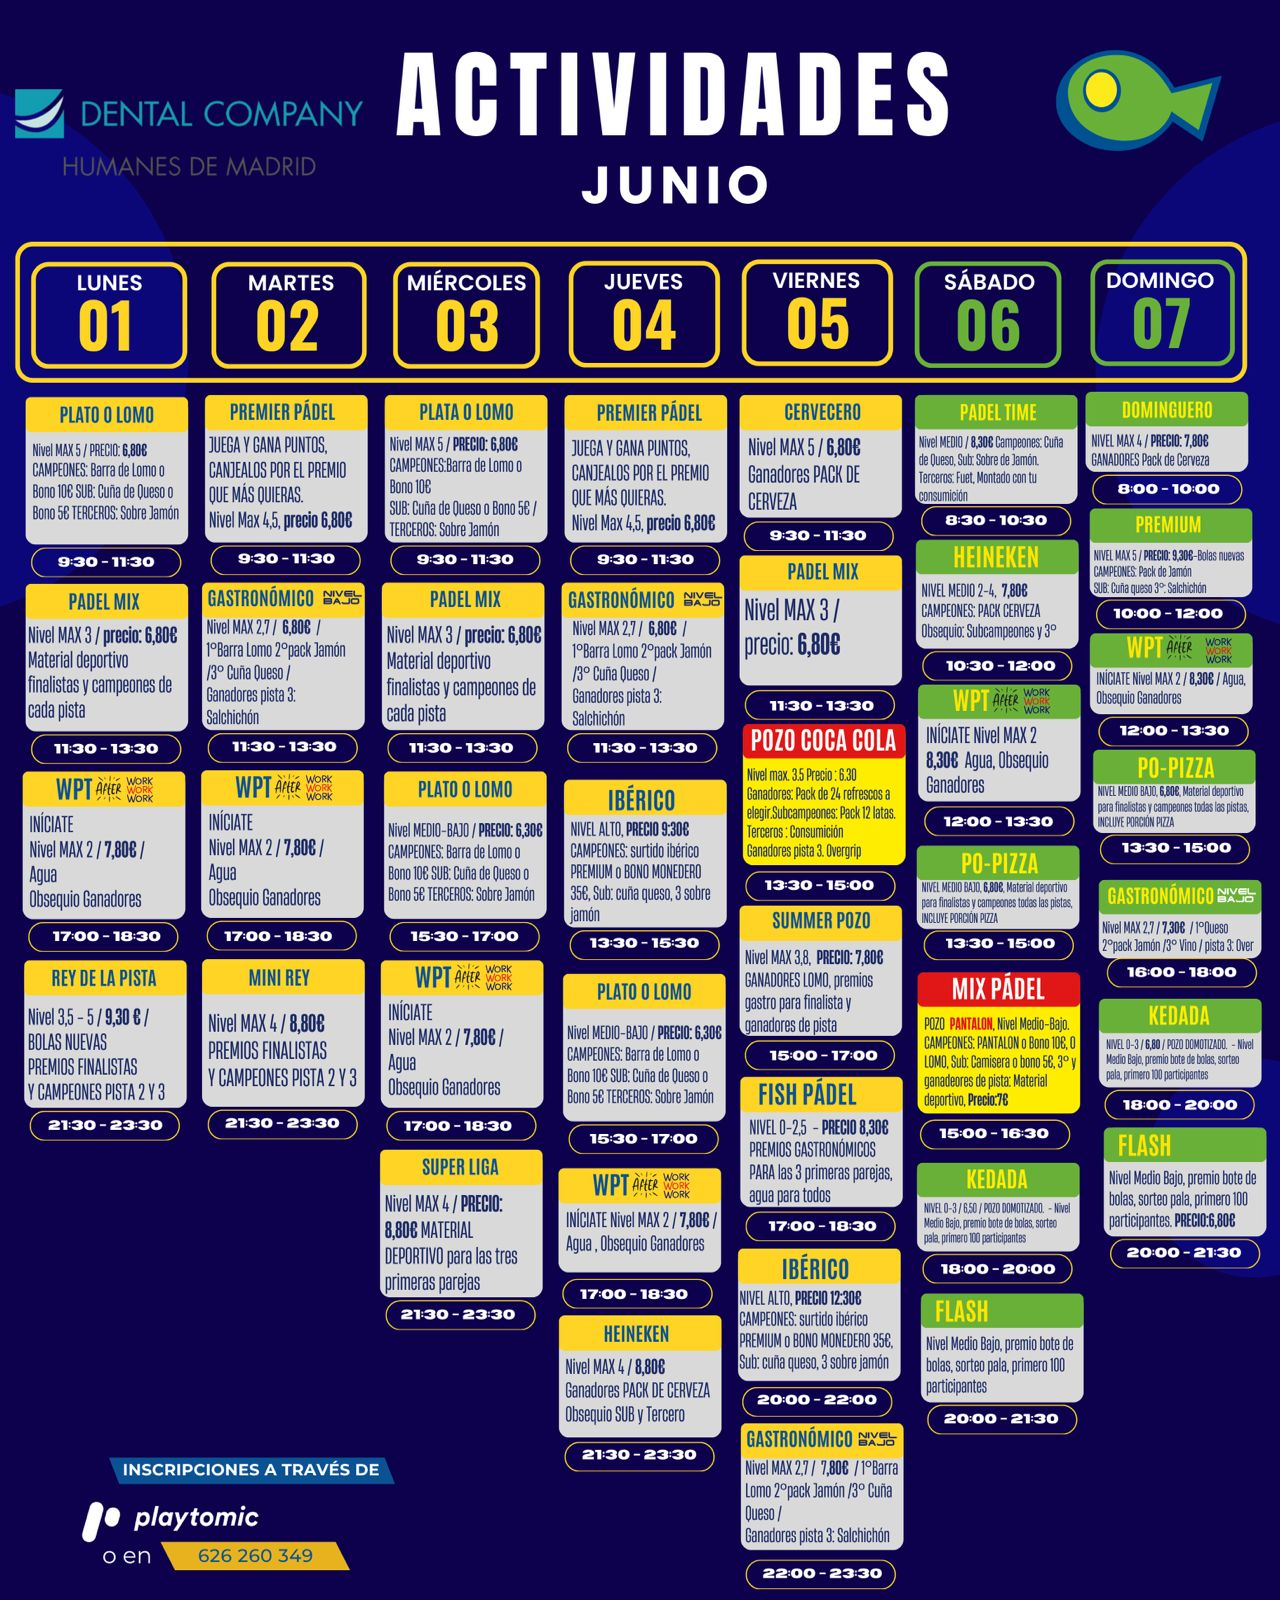
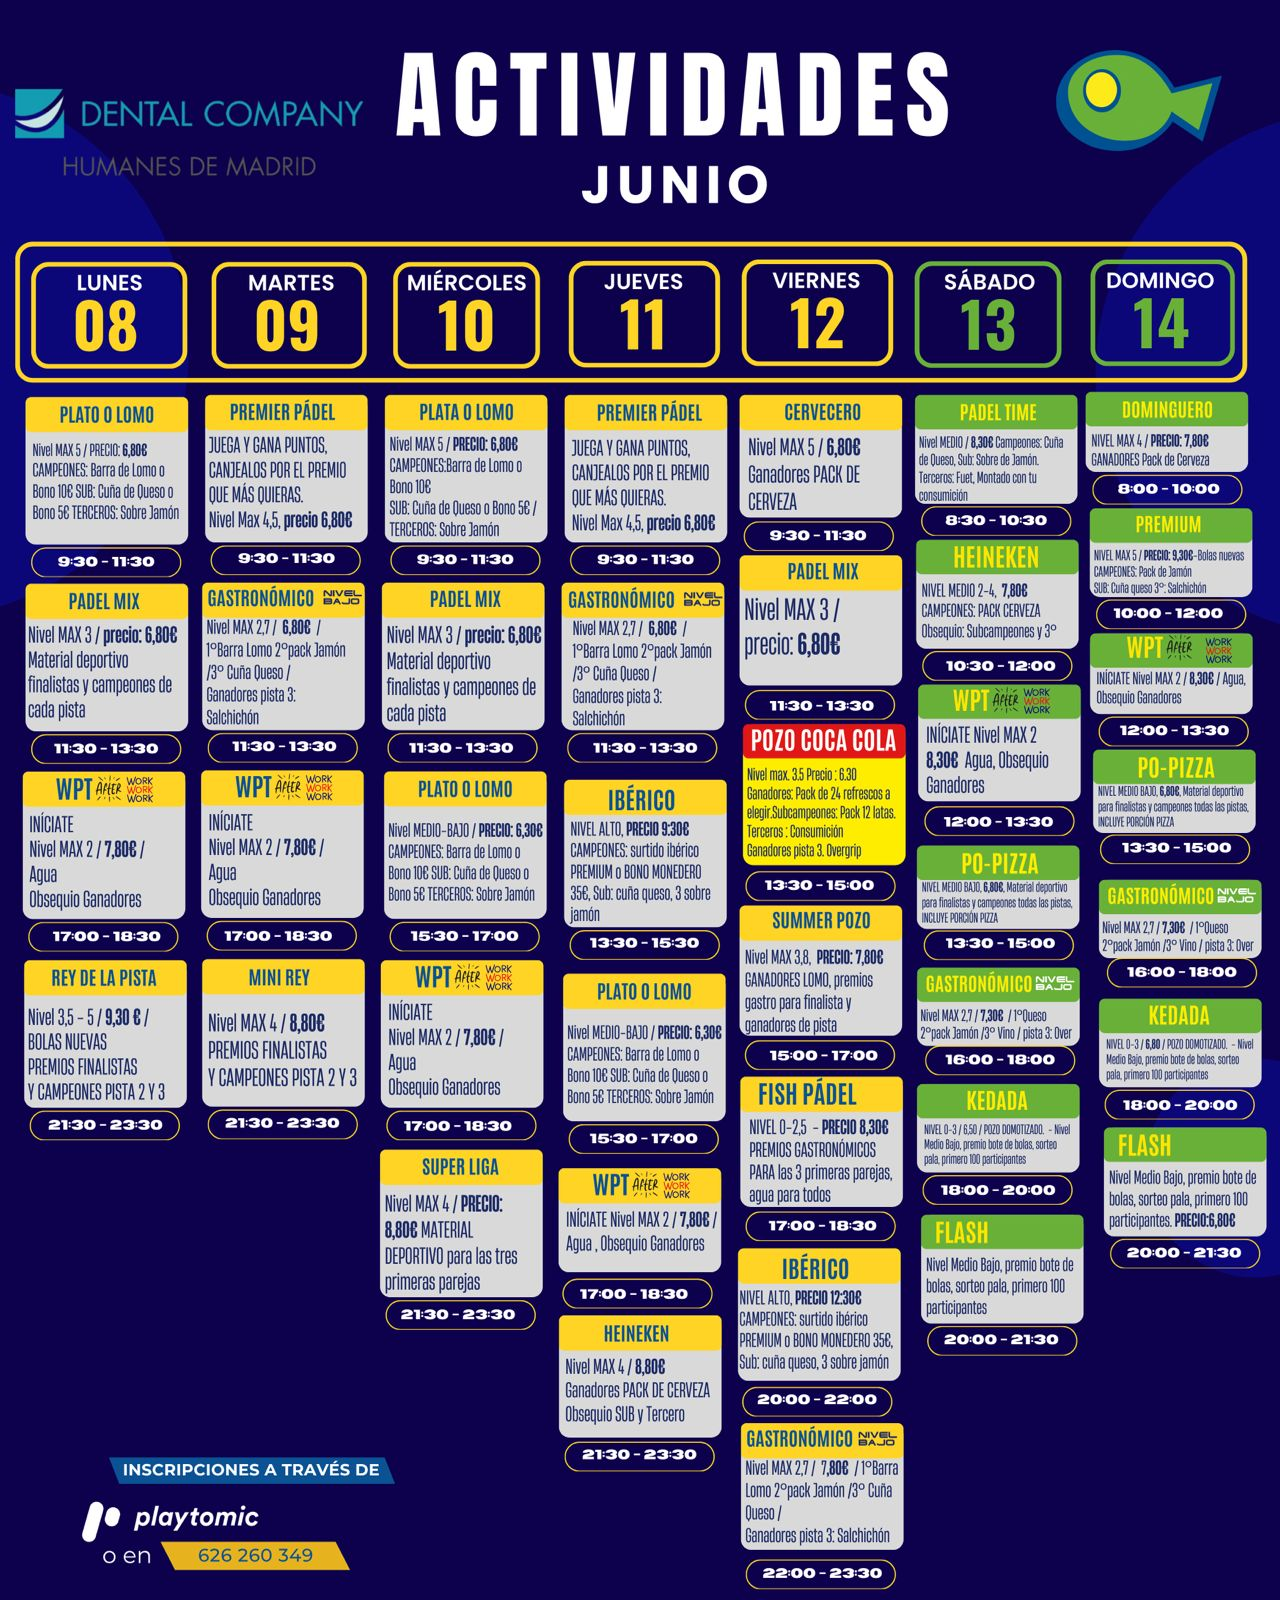
feat: sync ganadores mayo-2026 (48 fotos) y actualizar carteles actividades
- galeria.json actualizado con 48 fotos de Mayo 2026 (15 nuevas) y nombre corregido
- scripts/sync-galeria.js: script para sincronizar galeria.json desde Cloudinary
- package.json: añadido comando sync-galeria
- Carteles de actividades actualizados (actividades-hero y actividades-hero-2)

diff --git a/scripts/sync-galeria.js b/scripts/sync-galeria.js
@@ -1,0 +1,115 @@
+#!/usr/bin/env node
+/**
+ * sync-galeria.js
+ * Sincroniza galeria.json con las carpetas de ganadores en Cloudinary.
+ *
+ * Uso:
+ *   node scripts/sync-galeria.js
+ *
+ * Estructura esperada en Cloudinary:
+ *   ganadores/
+ *     Mayo-2026/
+ *     Junio-2026/
+ *     ...
+ */
+
+import { writeFileSync, readFileSync } from 'fs';
+import { fileURLToPath } from 'url';
+import { dirname, join } from 'path';
+
+const __dirname = dirname(fileURLToPath(import.meta.url));
+
+const CLOUD_NAME = 'deymoyy1z';
+const API_KEY    = '293289644662512';
+const API_SECRET = 'hY2sz7Tu3ks4RauvbDmuzSmWpQc';
+const BASE_AUTH  = Buffer.from(`${API_KEY}:${API_SECRET}`).toString('base64');
+const GALERIA_PATH = join(__dirname, '../src/data/galeria.json');
+
+// Mapeo de nombre de carpeta (en Cloudinary) → nombre legible en la web
+// Formato carpeta: "Mayo-2026" → nombre: "Mayo 2026", slug: "mayo-2026"
+function folderToMeta(folderName) {
+  return {
+    nombre: folderName.replace('-', ' '),
+    slug: folderName.toLowerCase(),
+  };
+}
+
+async function cloudinaryFetch(path, body = null) {
+  const opts = {
+    method: body ? 'POST' : 'GET',
+    headers: {
+      Authorization: `Basic ${BASE_AUTH}`,
+      ...(body ? { 'Content-Type': 'application/json' } : {}),
+    },
+    ...(body ? { body: JSON.stringify(body) } : {}),
+  };
+  const res = await fetch(`https://api.cloudinary.com/v1_1/${CLOUD_NAME}${path}`, opts);
+  return res.json();
+}
+
+async function getSubfolders(parentFolder) {
+  const data = await cloudinaryFetch(`/folders/${parentFolder}`);
+  return (data.folders || []).map(f => f.name);
+}
+
+async function getImagesInFolder(assetFolder) {
+  let all = [];
+  let nextCursor = null;
+
+  do {
+    const body = {
+      expression: `asset_folder="${assetFolder}"`,
+      max_results: 500,
+      sort_by: [{ created_at: 'asc' }],
+      ...(nextCursor ? { next_cursor: nextCursor } : {}),
+    };
+    const data = await cloudinaryFetch('/resources/search', body);
+    all = all.concat(data.resources || []);
+    nextCursor = data.next_cursor || null;
+  } while (nextCursor);
+
+  return all.map(r =>
+    `https://res.cloudinary.com/${CLOUD_NAME}/image/upload/q_auto,f_auto/${r.public_id}`
+  );
+}
+
+async function main() {
+  console.log('Obteniendo subcarpetas de ganadores...');
+  const subcarpetas = await getSubfolders('ganadores');
+
+  if (!subcarpetas.length) {
+    console.error('No se encontraron subcarpetas en ganadores/');
+    process.exit(1);
+  }
+
+  console.log(`Subcarpetas encontradas: ${subcarpetas.join(', ')}`);
+
+  const meses = [];
+
+  for (const carpeta of subcarpetas) {
+    const assetFolder = `ganadores/${carpeta}`;
+    console.log(`Obteniendo fotos de ${assetFolder}...`);
+    const fotos = await getImagesInFolder(assetFolder);
+    const { nombre, slug } = folderToMeta(carpeta);
+    console.log(`  → ${fotos.length} fotos`);
+    meses.push({ nombre, slug, fotos });
+  }
+
+  // Ordenar meses cronológicamente por slug (ej: "enero-2026" < "mayo-2026")
+  const MESES_ORDEN = ['enero','febrero','marzo','abril','mayo','junio','julio','agosto','septiembre','octubre','noviembre','diciembre'];
+  meses.sort((a, b) => {
+    const [mA, yA] = a.slug.split('-');
+    const [mB, yB] = b.slug.split('-');
+    if (yA !== yB) return parseInt(yA) - parseInt(yB);
+    return MESES_ORDEN.indexOf(mA) - MESES_ORDEN.indexOf(mB);
+  });
+
+  const galeria = { meses };
+  writeFileSync(GALERIA_PATH, JSON.stringify(galeria, null, 2) + '\n');
+  console.log(`\ngaleria.json actualizado con ${meses.length} mes(es) y ${meses.reduce((t, m) => t + m.fotos.length, 0)} fotos en total.`);
+}
+
+main().catch(err => {
+  console.error(err);
+  process.exit(1);
+});
